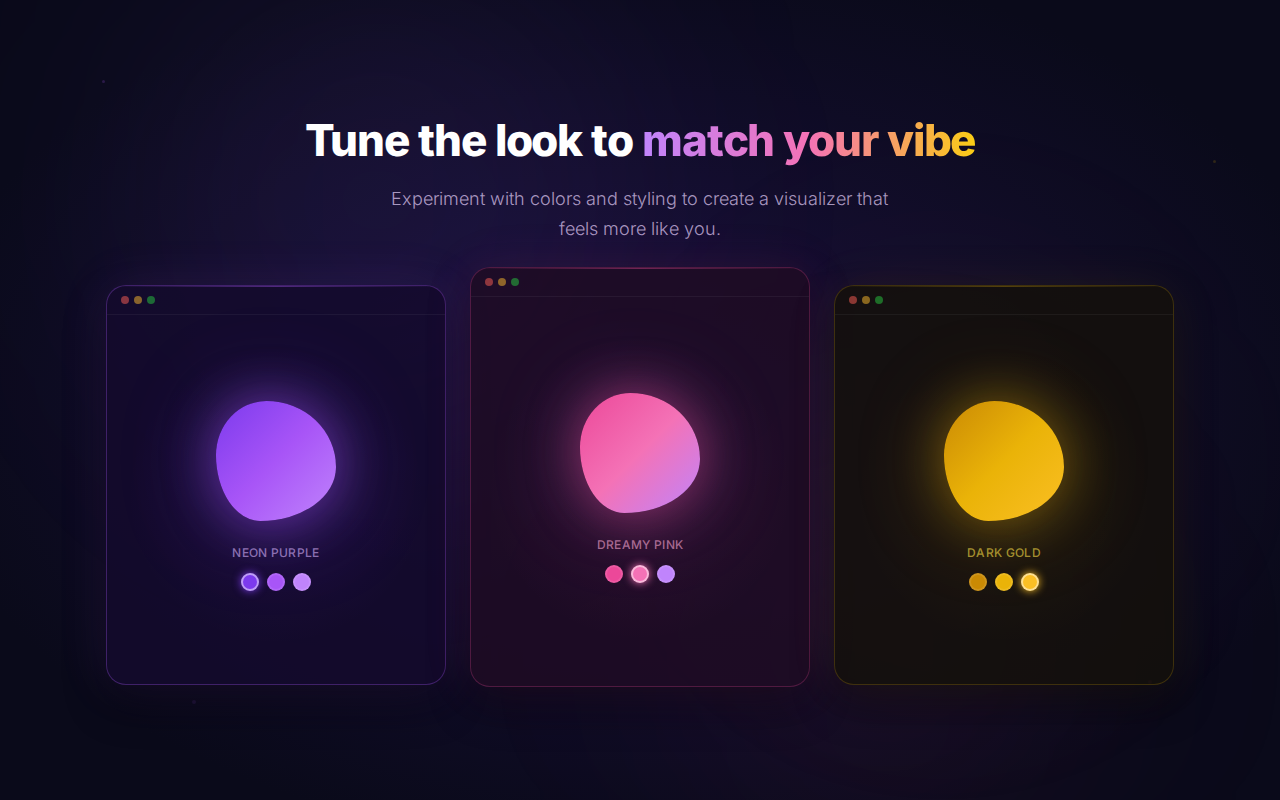
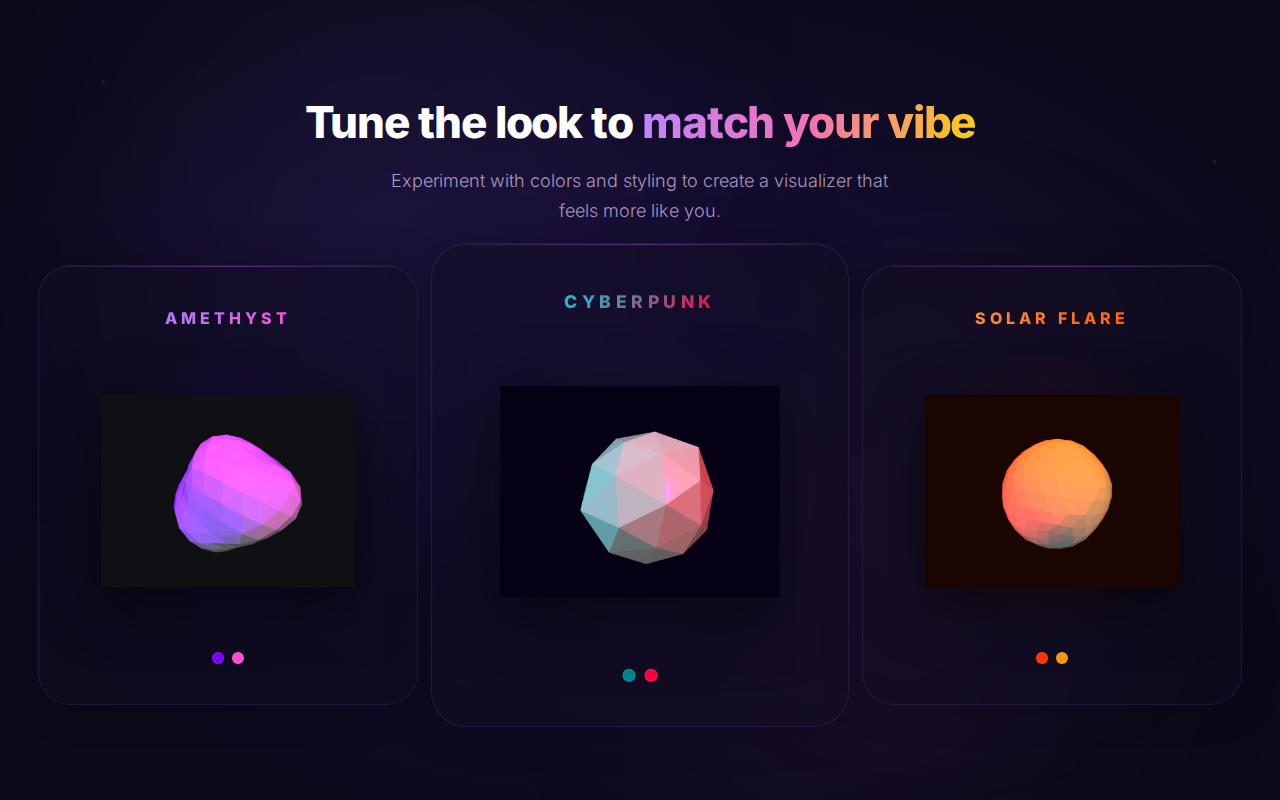
Update screenshots

diff --git a/screenshots/slide-3.html b/screenshots/slide-3.html
@@ -45,13 +45,24 @@
         pointer-events: none;
       }
 
-      /* ---- Theme card (mini browser frame) ---- */
+      /* ---- Theme Card (Clean, no browser frame) ---- */
       .theme-card {
-        width: 340px;
-        height: 400px;
-        border-radius: 20px;
-        overflow: hidden;
+        width: 380px;
+        height: 440px;
+        border-radius: 32px;
+        background: rgba(15, 12, 30, 0.5);
+        border: 1px solid rgba(139, 92, 246, 0.15);
+        backdrop-filter: blur(20px);
+        box-shadow:
+          0 0 40px rgba(0, 0, 0, 0.3),
+          inset 0 1px 0 rgba(255, 255, 255, 0.04);
         position: relative;
+        overflow: hidden;
+        display: flex;
+        flex-direction: column;
+        align-items: center;
+        justify-content: center;
+        padding: 40px;
       }
       .theme-card::before {
         content: '';
@@ -60,37 +71,6 @@
         left: 0;
         right: 0;
         height: 1px;
-        z-index: 1;
-      }
-
-      .theme-dots {
-        display: flex;
-        gap: 5px;
-        padding: 10px 14px;
-        border-bottom: 1px solid rgba(255, 255, 255, 0.05);
-      }
-      .theme-dots span {
-        width: 8px;
-        height: 8px;
-        border-radius: 50%;
-      }
-
-      /* ---- Theme blob ---- */
-      .theme-blob {
-        width: 120px;
-        height: 120px;
-        border-radius: 42% 58% 63% 37% / 45% 55% 45% 55%;
-      }
-
-      /* ---- Theme: Neon Purple ---- */
-      .theme-neon .theme-card {
-        background: rgba(20, 10, 45, 0.85);
-        border: 1px solid rgba(168, 85, 247, 0.3);
-        box-shadow:
-          0 0 50px rgba(168, 85, 247, 0.12),
-          0 20px 40px rgba(0, 0, 0, 0.4);
-      }
-      .theme-neon .theme-card::before {
         background: linear-gradient(
           90deg,
           transparent,
@@ -98,69 +78,69 @@
           transparent
         );
       }
-      .theme-neon .theme-blob {
-        background: linear-gradient(135deg, #7c3aed, #a855f7, #c084fc);
-        box-shadow:
-          0 0 50px rgba(168, 85, 247, 0.5),
-          0 0 100px rgba(124, 58, 237, 0.3);
+
+      /* ---- Visual Item Container ---- */
+      .visual-item {
+        flex: 1;
+        display: flex;
+        align-items: center;
+        justify-content: center;
+        width: 100%;
+        position: relative;
+      }
+      .visual-item img {
+        width: 85%;
+        height: 85%;
+        object-fit: contain;
+        filter: drop-shadow(0 15px 30px rgba(0, 0, 0, 0.6));
       }
 
-      /* ---- Theme: Dreamy Pink ---- */
-      .theme-dreamy .theme-card {
-        background: rgba(30, 12, 35, 0.85);
-        border: 1px solid rgba(236, 72, 153, 0.25);
-        box-shadow:
-          0 0 50px rgba(236, 72, 153, 0.1),
-          0 20px 40px rgba(0, 0, 0, 0.4);
+      /* ---- Theme Labels ---- */
+      .theme-label {
+        font-size: 16px;
+        font-weight: 800;
+        text-transform: uppercase;
+        letter-spacing: 0.25em;
+        margin-bottom: 24px;
+        background: linear-gradient(135deg, #c084fc, #f472b6);
+        -webkit-background-clip: text;
+        -webkit-text-fill-color: transparent;
       }
-      .theme-dreamy .theme-card::before {
-        background: linear-gradient(
-          90deg,
-          transparent,
-          rgba(236, 72, 153, 0.4),
-          transparent
+
+      /* ---- Glow effects ---- */
+      .glow-purple {
+        background: radial-gradient(
+          circle,
+          rgba(128, 0, 255, 0.15) 0%,
+          transparent 70%
         );
       }
-      .theme-dreamy .theme-blob {
-        background: linear-gradient(135deg, #ec4899, #f472b6, #c084fc);
-        box-shadow:
-          0 0 50px rgba(236, 72, 153, 0.5),
-          0 0 100px rgba(192, 132, 252, 0.2);
-      }
-
-      /* ---- Theme: Gold Dark ---- */
-      .theme-gold .theme-card {
-        background: rgba(20, 16, 10, 0.85);
-        border: 1px solid rgba(234, 179, 8, 0.2);
-        box-shadow:
-          0 0 50px rgba(234, 179, 8, 0.08),
-          0 20px 40px rgba(0, 0, 0, 0.4);
-      }
-      .theme-gold .theme-card::before {
-        background: linear-gradient(
-          90deg,
-          transparent,
-          rgba(234, 179, 8, 0.3),
-          transparent
+      .glow-cyber {
+        background: radial-gradient(
+          circle,
+          rgba(0, 133, 143, 0.15) 0%,
+          transparent 70%
         );
       }
-      .theme-gold .theme-blob {
-        background: linear-gradient(135deg, #ca8a04, #eab308, #fbbf24);
-        box-shadow:
-          0 0 50px rgba(234, 179, 8, 0.4),
-          0 0 100px rgba(202, 138, 4, 0.2);
+      .glow-solar {
+        background: radial-gradient(
+          circle,
+          rgba(255, 51, 0, 0.15) 0%,
+          transparent 70%
+        );
       }
 
-      /* ---- Color swatch chips ---- */
-      .color-swatch {
-        width: 18px;
-        height: 18px;
+      /* ---- Swatches ---- */
+      .swatch-group {
+        display: flex;
+        gap: 8px;
+        margin-top: 24px;
+      }
+      .swatch {
+        width: 12px;
+        height: 12px;
         border-radius: 50%;
-        border: 2px solid rgba(255, 255, 255, 0.1);
-      }
-      .color-swatch.active {
-        border-color: rgba(255, 255, 255, 0.5);
-        box-shadow: 0 0 8px currentColor;
+        border: 1px solid rgba(255, 255, 255, 0.1);
       }
 
       /* ---- Particles ---- */
@@ -269,118 +249,61 @@
       </div>
 
       <!-- ---- Three theme cards ---- -->
-      <div class="relative z-10 flex items-center gap-6">
-        <!-- Theme 1: Neon Purple -->
-        <div class="theme-neon">
-          <div class="theme-card">
-            <div class="theme-dots">
-              <span style="background: rgba(255, 95, 86, 0.5)"></span>
-              <span style="background: rgba(255, 189, 46, 0.5)"></span>
-              <span style="background: rgba(39, 201, 63, 0.5)"></span>
-            </div>
-            <!-- Blob area -->
-            <div
-              class="flex items-center justify-center flex-col"
-              style="
-                height: calc(100% - 36px);
-                background: radial-gradient(
-                  circle at 50% 50%,
-                  rgba(124, 58, 237, 0.1),
-                  transparent 60%
-                );
-              "
-            >
-              <div class="theme-blob" style="animation-delay: 0s"></div>
-              <!-- Label -->
-              <p
-                class="text-purple-300/60 text-xs font-medium mt-6 tracking-wide uppercase"
-              >
-                Neon Purple
-              </p>
-              <!-- Color swatches -->
-              <div class="flex gap-2 mt-3">
-                <div
-                  class="color-swatch active"
-                  style="background: #7c3aed; color: #7c3aed"
-                ></div>
-                <div class="color-swatch" style="background: #a855f7"></div>
-                <div class="color-swatch" style="background: #c084fc"></div>
-              </div>
-            </div>
+      <div class="relative z-10 flex items-center gap-8">
+        <!-- Theme 1: Amethyst -->
+        <div class="theme-card">
+          <span
+            class="theme-label"
+            style="
+              background: linear-gradient(135deg, #a782ff, #ff4fd8);
+              -webkit-background-clip: text;
+            "
+            >Amethyst</span
+          >
+          <div class="visual-item glow-purple">
+            <img src="assets/amethyst.png" alt="Amethyst Theme" />
+          </div>
+          <div class="swatch-group">
+            <div class="swatch" style="background: #8000ff"></div>
+            <div class="swatch" style="background: #ff4fd8"></div>
           </div>
         </div>
 
-        <!-- Theme 2: Dreamy Pink (center, slightly elevated) -->
-        <div class="theme-dreamy -mt-4">
-          <div class="theme-card" style="height: 420px">
-            <div class="theme-dots">
-              <span style="background: rgba(255, 95, 86, 0.5)"></span>
-              <span style="background: rgba(255, 189, 46, 0.5)"></span>
-              <span style="background: rgba(39, 201, 63, 0.5)"></span>
-            </div>
-            <div
-              class="flex items-center justify-center flex-col"
-              style="
-                height: calc(100% - 36px);
-                background: radial-gradient(
-                  circle at 50% 50%,
-                  rgba(236, 72, 153, 0.08),
-                  transparent 60%
-                );
-              "
-            >
-              <div class="theme-blob" style="animation-delay: 0.8s"></div>
-              <p
-                class="text-pink-300/60 text-xs font-medium mt-6 tracking-wide uppercase"
-              >
-                Dreamy Pink
-              </p>
-              <div class="flex gap-2 mt-3">
-                <div class="color-swatch" style="background: #ec4899"></div>
-                <div
-                  class="color-swatch active"
-                  style="background: #f472b6; color: #f472b6"
-                ></div>
-                <div class="color-swatch" style="background: #c084fc"></div>
-              </div>
-            </div>
+        <!-- Theme 2: Cyberpunk (central focus) -->
+        <div class="theme-card scale-110">
+          <span
+            class="theme-label"
+            style="
+              background: linear-gradient(135deg, #00d2df, #ff003c);
+              -webkit-background-clip: text;
+            "
+            >Cyberpunk</span
+          >
+          <div class="visual-item glow-cyber">
+            <img src="assets/cyberpunk.png" alt="Cyberpunk Theme" />
+          </div>
+          <div class="swatch-group">
+            <div class="swatch" style="background: #00858f"></div>
+            <div class="swatch" style="background: #ff003c"></div>
           </div>
         </div>
 
-        <!-- Theme 3: Gold Dark -->
-        <div class="theme-gold">
-          <div class="theme-card">
-            <div class="theme-dots">
-              <span style="background: rgba(255, 95, 86, 0.5)"></span>
-              <span style="background: rgba(255, 189, 46, 0.5)"></span>
-              <span style="background: rgba(39, 201, 63, 0.5)"></span>
-            </div>
-            <div
-              class="flex items-center justify-center flex-col"
-              style="
-                height: calc(100% - 36px);
-                background: radial-gradient(
-                  circle at 50% 50%,
-                  rgba(234, 179, 8, 0.06),
-                  transparent 60%
-                );
-              "
-            >
-              <div class="theme-blob" style="animation-delay: 1.6s"></div>
-              <p
-                class="text-yellow-300/60 text-xs font-medium mt-6 tracking-wide uppercase"
-              >
-                Dark Gold
-              </p>
-              <div class="flex gap-2 mt-3">
-                <div class="color-swatch" style="background: #ca8a04"></div>
-                <div class="color-swatch" style="background: #eab308"></div>
-                <div
-                  class="color-swatch active"
-                  style="background: #fbbf24; color: #fbbf24"
-                ></div>
-              </div>
-            </div>
+        <!-- Theme 3: Solar Flare -->
+        <div class="theme-card">
+          <span
+            class="theme-label"
+            style="
+              background: linear-gradient(135deg, #ff8c42, #ff5f00);
+              -webkit-background-clip: text;
+            "
+            >Solar Flare</span
+          >
+          <div class="visual-item glow-solar">
+            <img src="assets/solar-flare.png" alt="Solar Flare Theme" />
+          </div>
+          <div class="swatch-group">
+            <div class="swatch" style="background: #ff3300"></div>
+            <div class="swatch" style="background: #ff9900"></div>
           </div>
         </div>
       </div>
